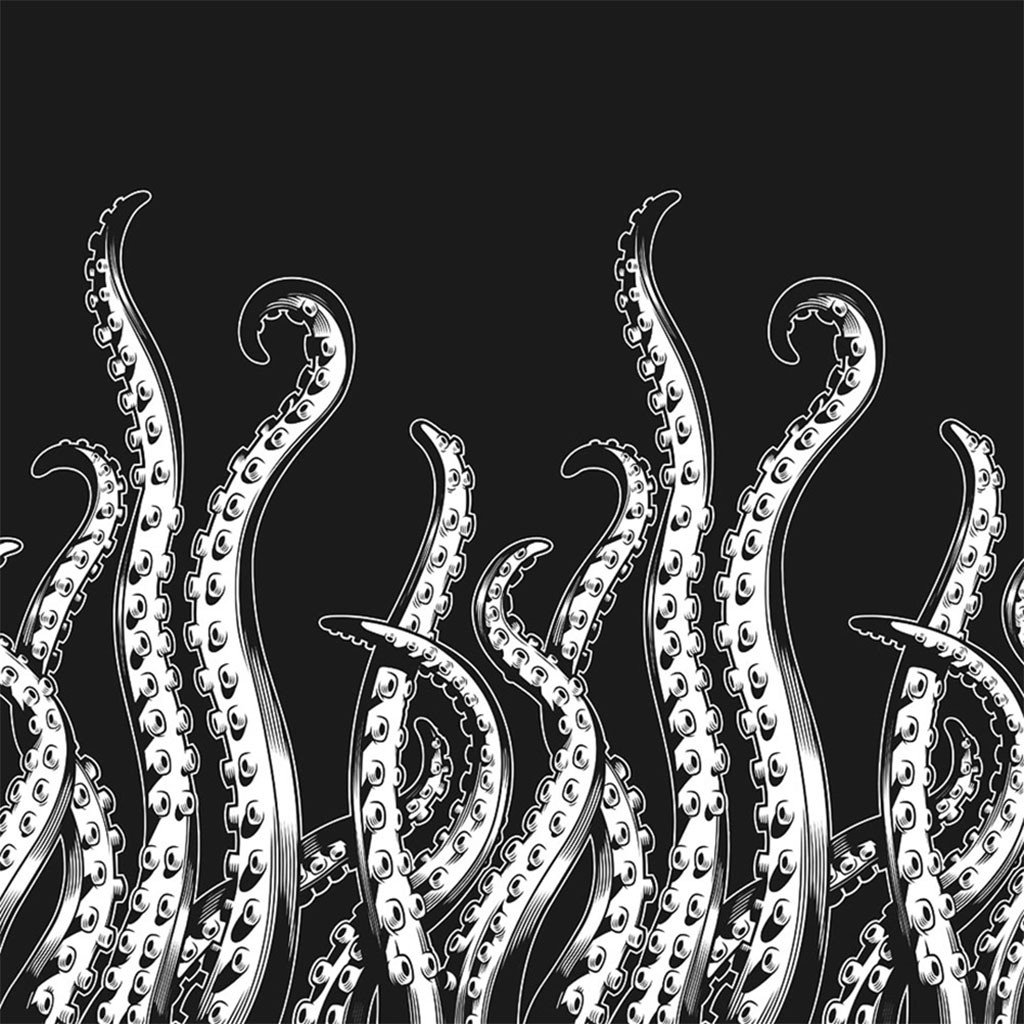
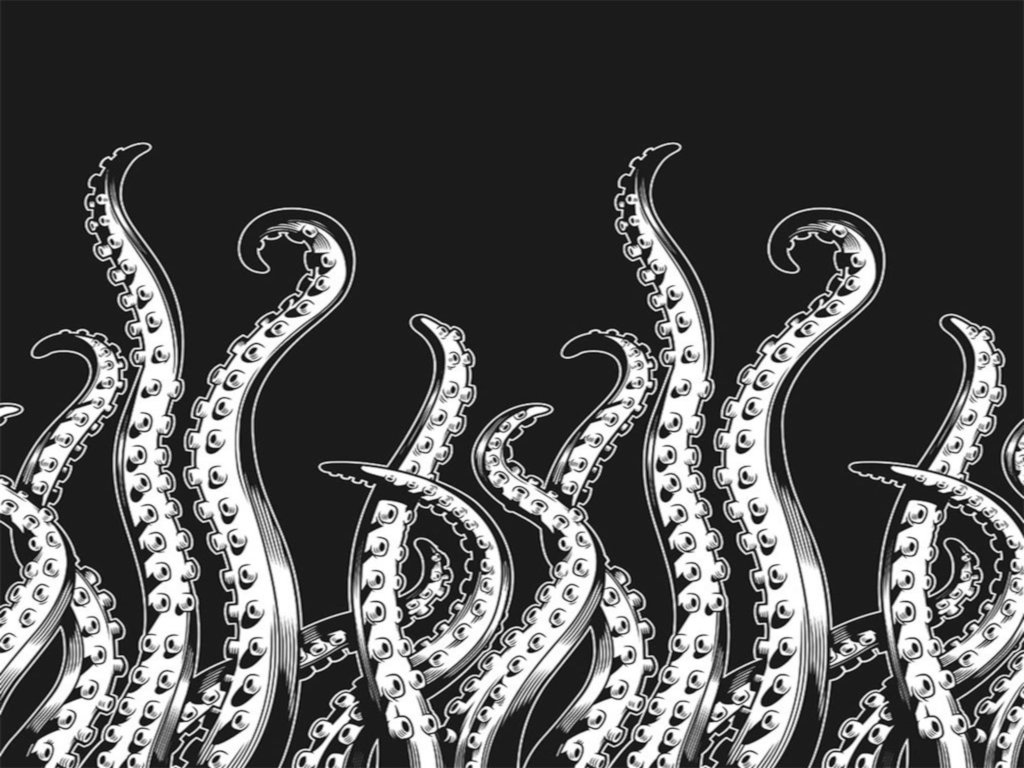
add tentacle class

Changed region(s): [[0.0, 0.1875, 1.0, 1.0], [0.75, 0.2812, 0.7812, 0.3438], [0.625, 0.1875, 0.6562, 0.2188]]

diff --git a/demo/Deformations/index.html b/demo/Deformations/index.html
@@ -2,21 +2,19 @@
 <html lang="en">
 <head>
     <meta charset="UTF-8">
-    <script type="module" src="../../dist/blacksheepgameengine-build.js"></script>
-    <!--script type="module" src="js/main.js"></script>
-    <link rel="stylesheet" type="text/css" href="css/main.css" /-->
+    <script type="module" src="js/blacksheepgameengine-build.js"></script>
+    <script type="module" src="js/main.js"></script>
+    <!--link rel="stylesheet" type="text/css" href="css/main.css" /-->
 </head>
 <body style="height:100vh;width:100vw;margin:auto;display:flex;align-items:center;justify-content: center">
-<div id="display" style="background-color:white;
+<div id="display" style="background-color:black;
             border: black 1px solid;
-            border-radius:25px;
             position:relative;
             min-width:1024px;
             min-height:768px;
             width:1024px;
             height:768px;
             overflow: hidden">
-
 </div>
 </body>
 </html>

diff --git a/demo/Deformations/js/Tentacles.js b/demo/Deformations/js/Tentacles.js
@@ -1,0 +1,11 @@
+import * as BlackSheepGameEngine from "./blacksheepgameengine-build.js";
+
+export default class Tentacles extends BlackSheepGameEngine.Entity {
+    constructor() {
+        super();
+        this.addComponent(new BlackSheepGameEngine.BodyComponent(0,0,0,1024,768,3));
+        this.addComponent(new BlackSheepGameEngine.ImageComponent('imgs/tentacle.jpg'));
+        
+        this.addBehavior(new BlackSheepGameEngine.DrawImageBehavior(this));
+    }
+}

diff --git a/demo/Deformations/js/main.js b/demo/Deformations/js/main.js
@@ -1,0 +1,12 @@
+import * as BlackSheepGameEngine from "./blacksheepgameengine-build.js"
+import Tentacles from "./Tentacles.js";
+
+window.gameEngine = new BlackSheepGameEngine.BlackSheepGameEngine();
+document.documentElement.addEventListener('gameInit', function() {
+    gameEngine.addEntity(new Tentacles());
+});
+
+window.addEventListener('load', function() {
+    gameEngine.run();
+});
+
